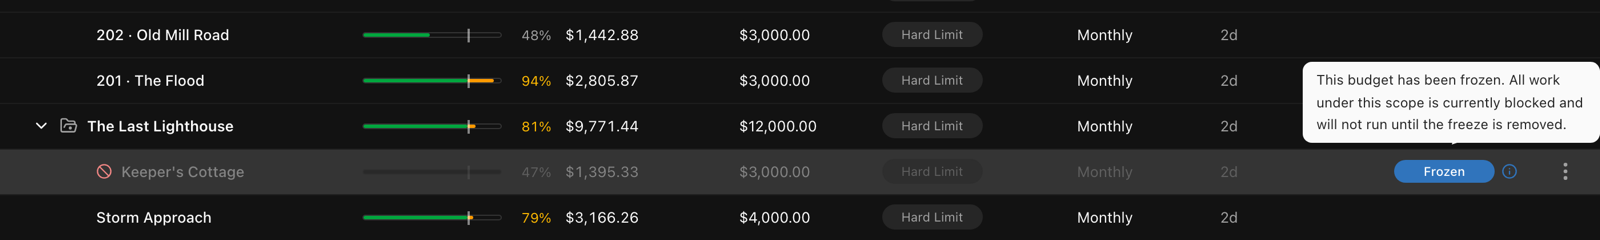
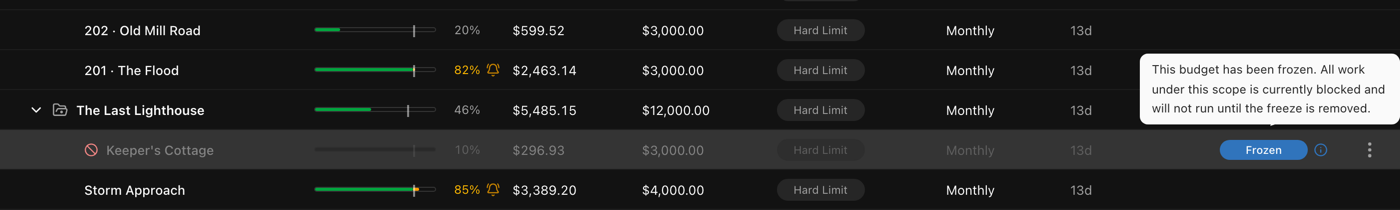
docs(enterprise): retake the Spend & Budgets and Usage Audit screenshots
Taken from the editor at griptape-vsl-gui#3522 against local Cloud with
the Northlight Pictures demo organization, so they show the Organization
section, the Monthly Limits card, the alert threshold bell, and Usage
Audit's quick date ranges.

Refs #6366

diff --git a/docs/enterprise/admin_dashboard.md b/docs/enterprise/admin_dashboard.md
@@ -145,7 +145,7 @@ Griptape Cloud checks the budgets that cover a call **before** the model runs. I
 
 ### The budget table
 
-![The Spend & Budgets page with budgets for two shows, a feature, a pilot, artist keys and departments](../assets/img/enterprise/admin_dashboard-spend_budgets.png)
+![The Spend & Budgets page, with organization-wide caps and the Fallback Budget in the Organization section above the projects](../assets/img/enterprise/admin_dashboard-spend_budgets.png)
 
 Budgets are grouped into four sections: **Organization**, **Projects**, **License Keys**, and **Access Groups**. Each row shows:
 
